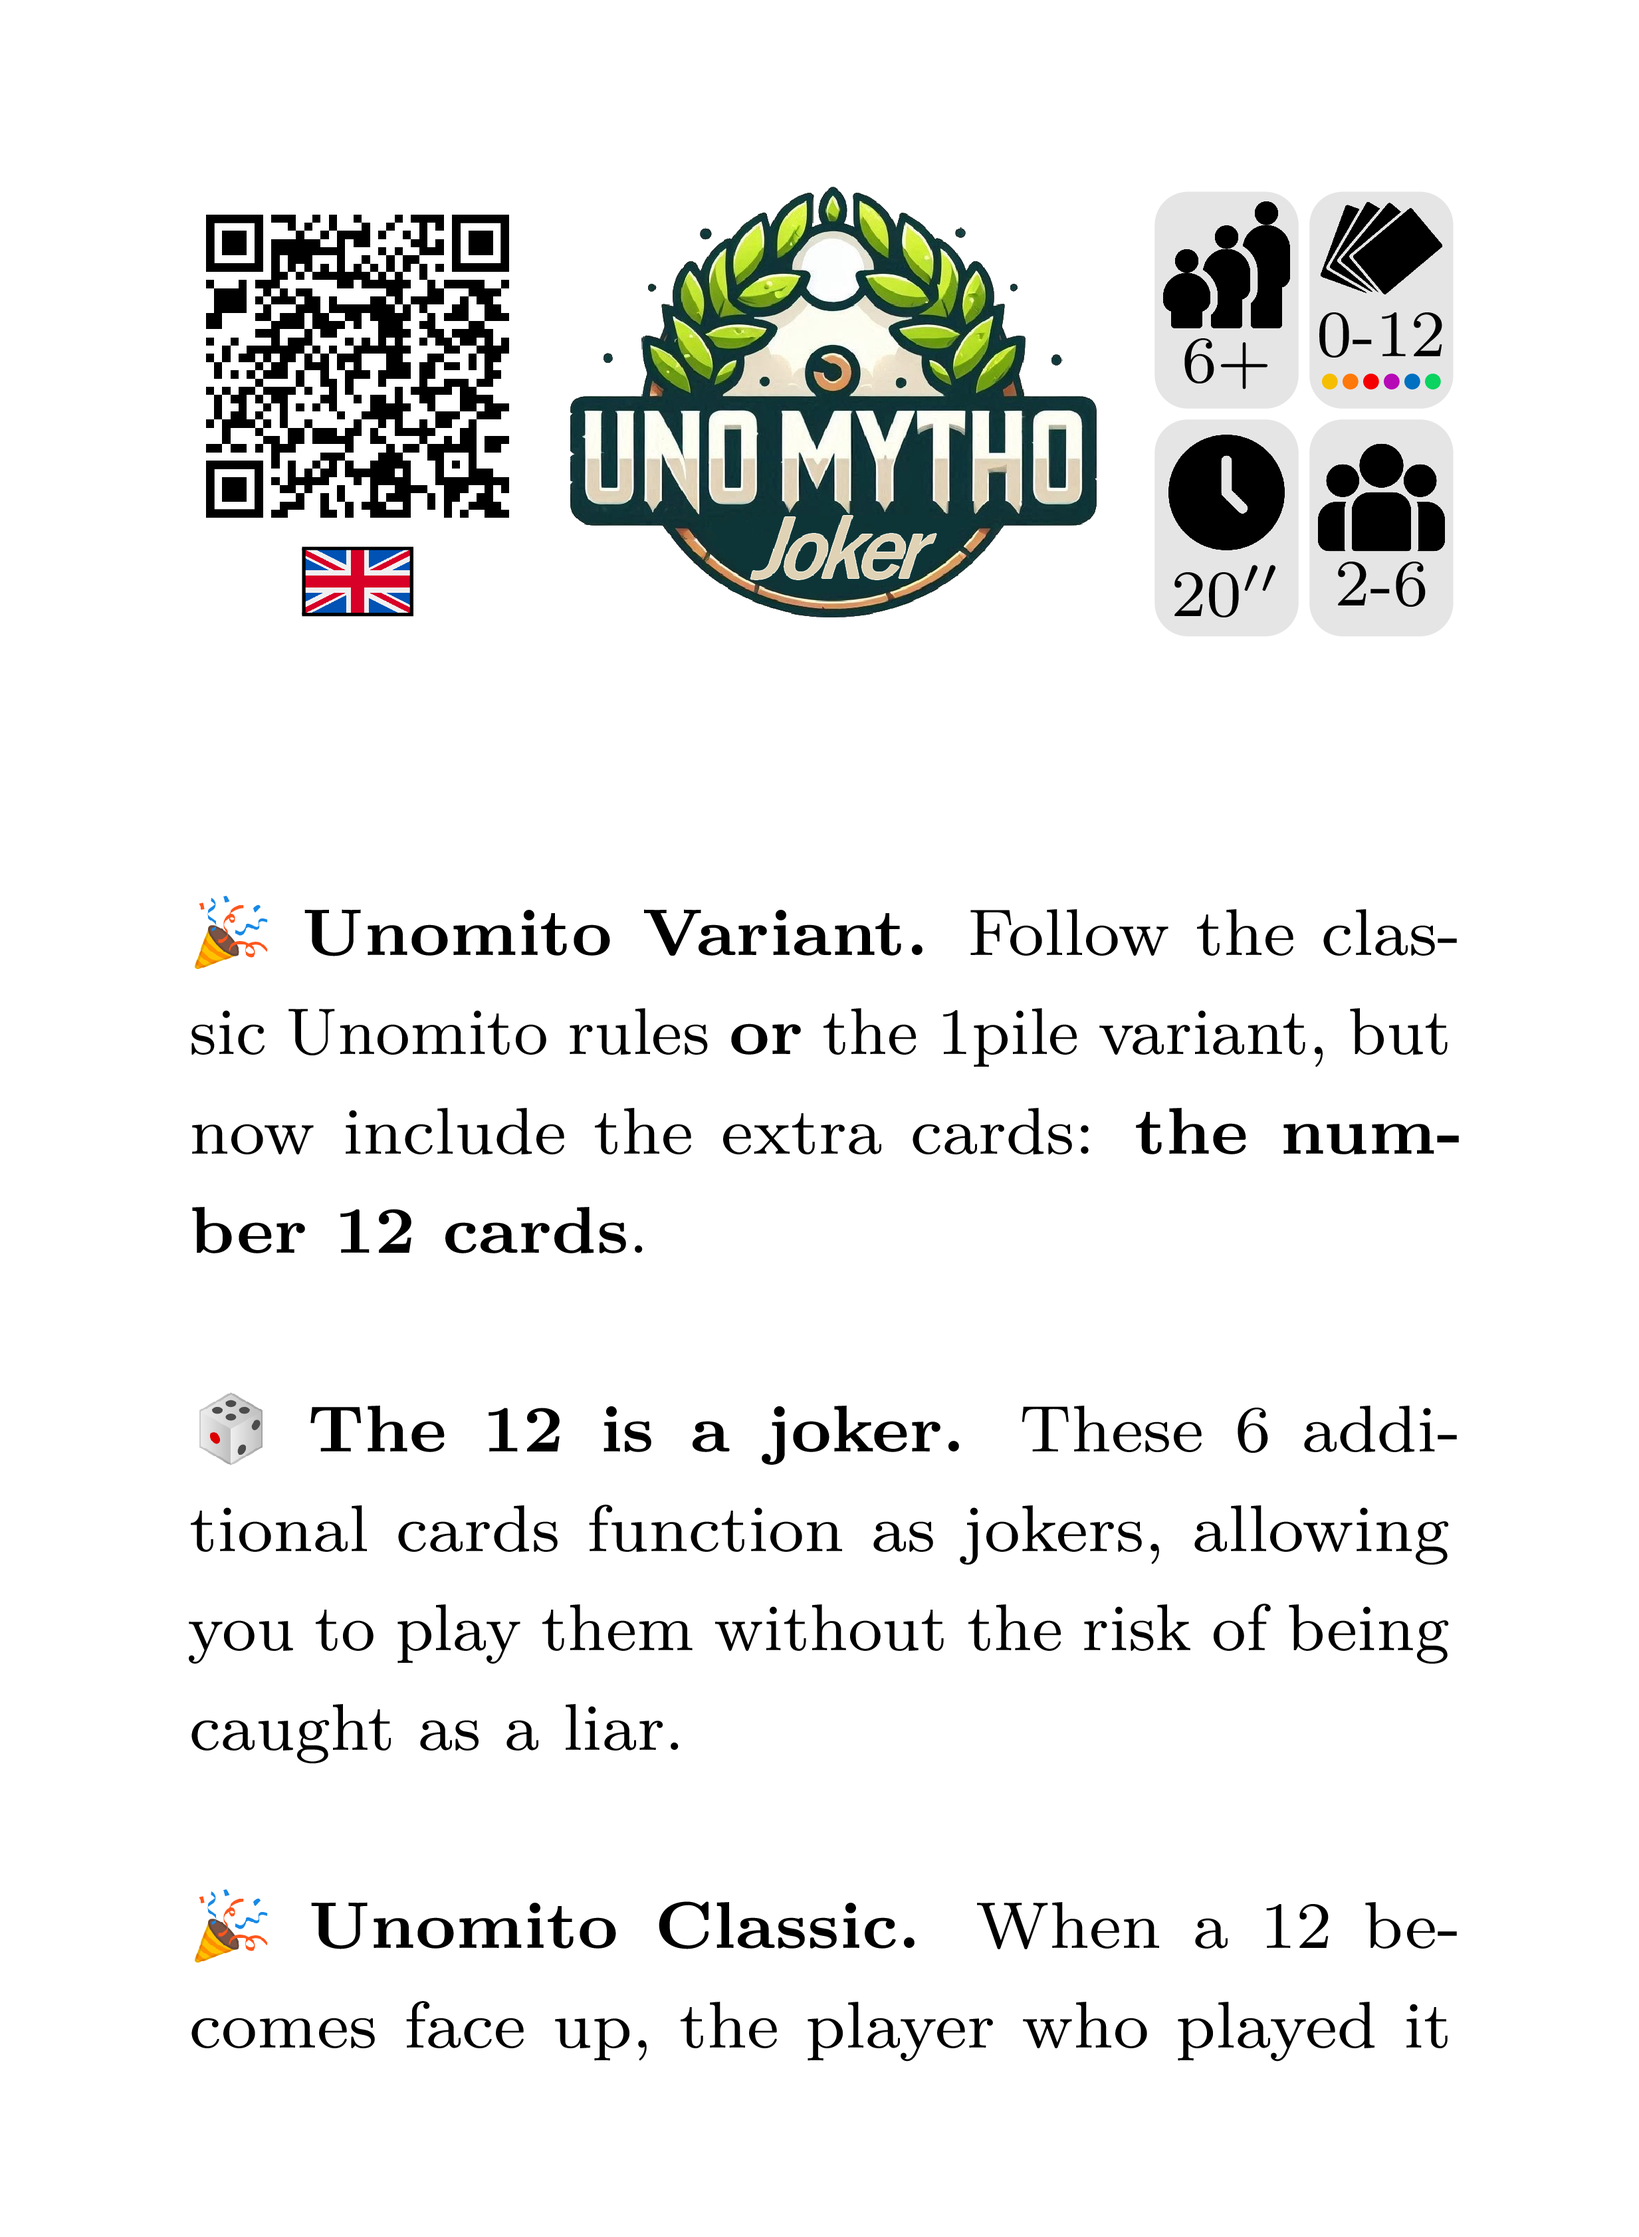
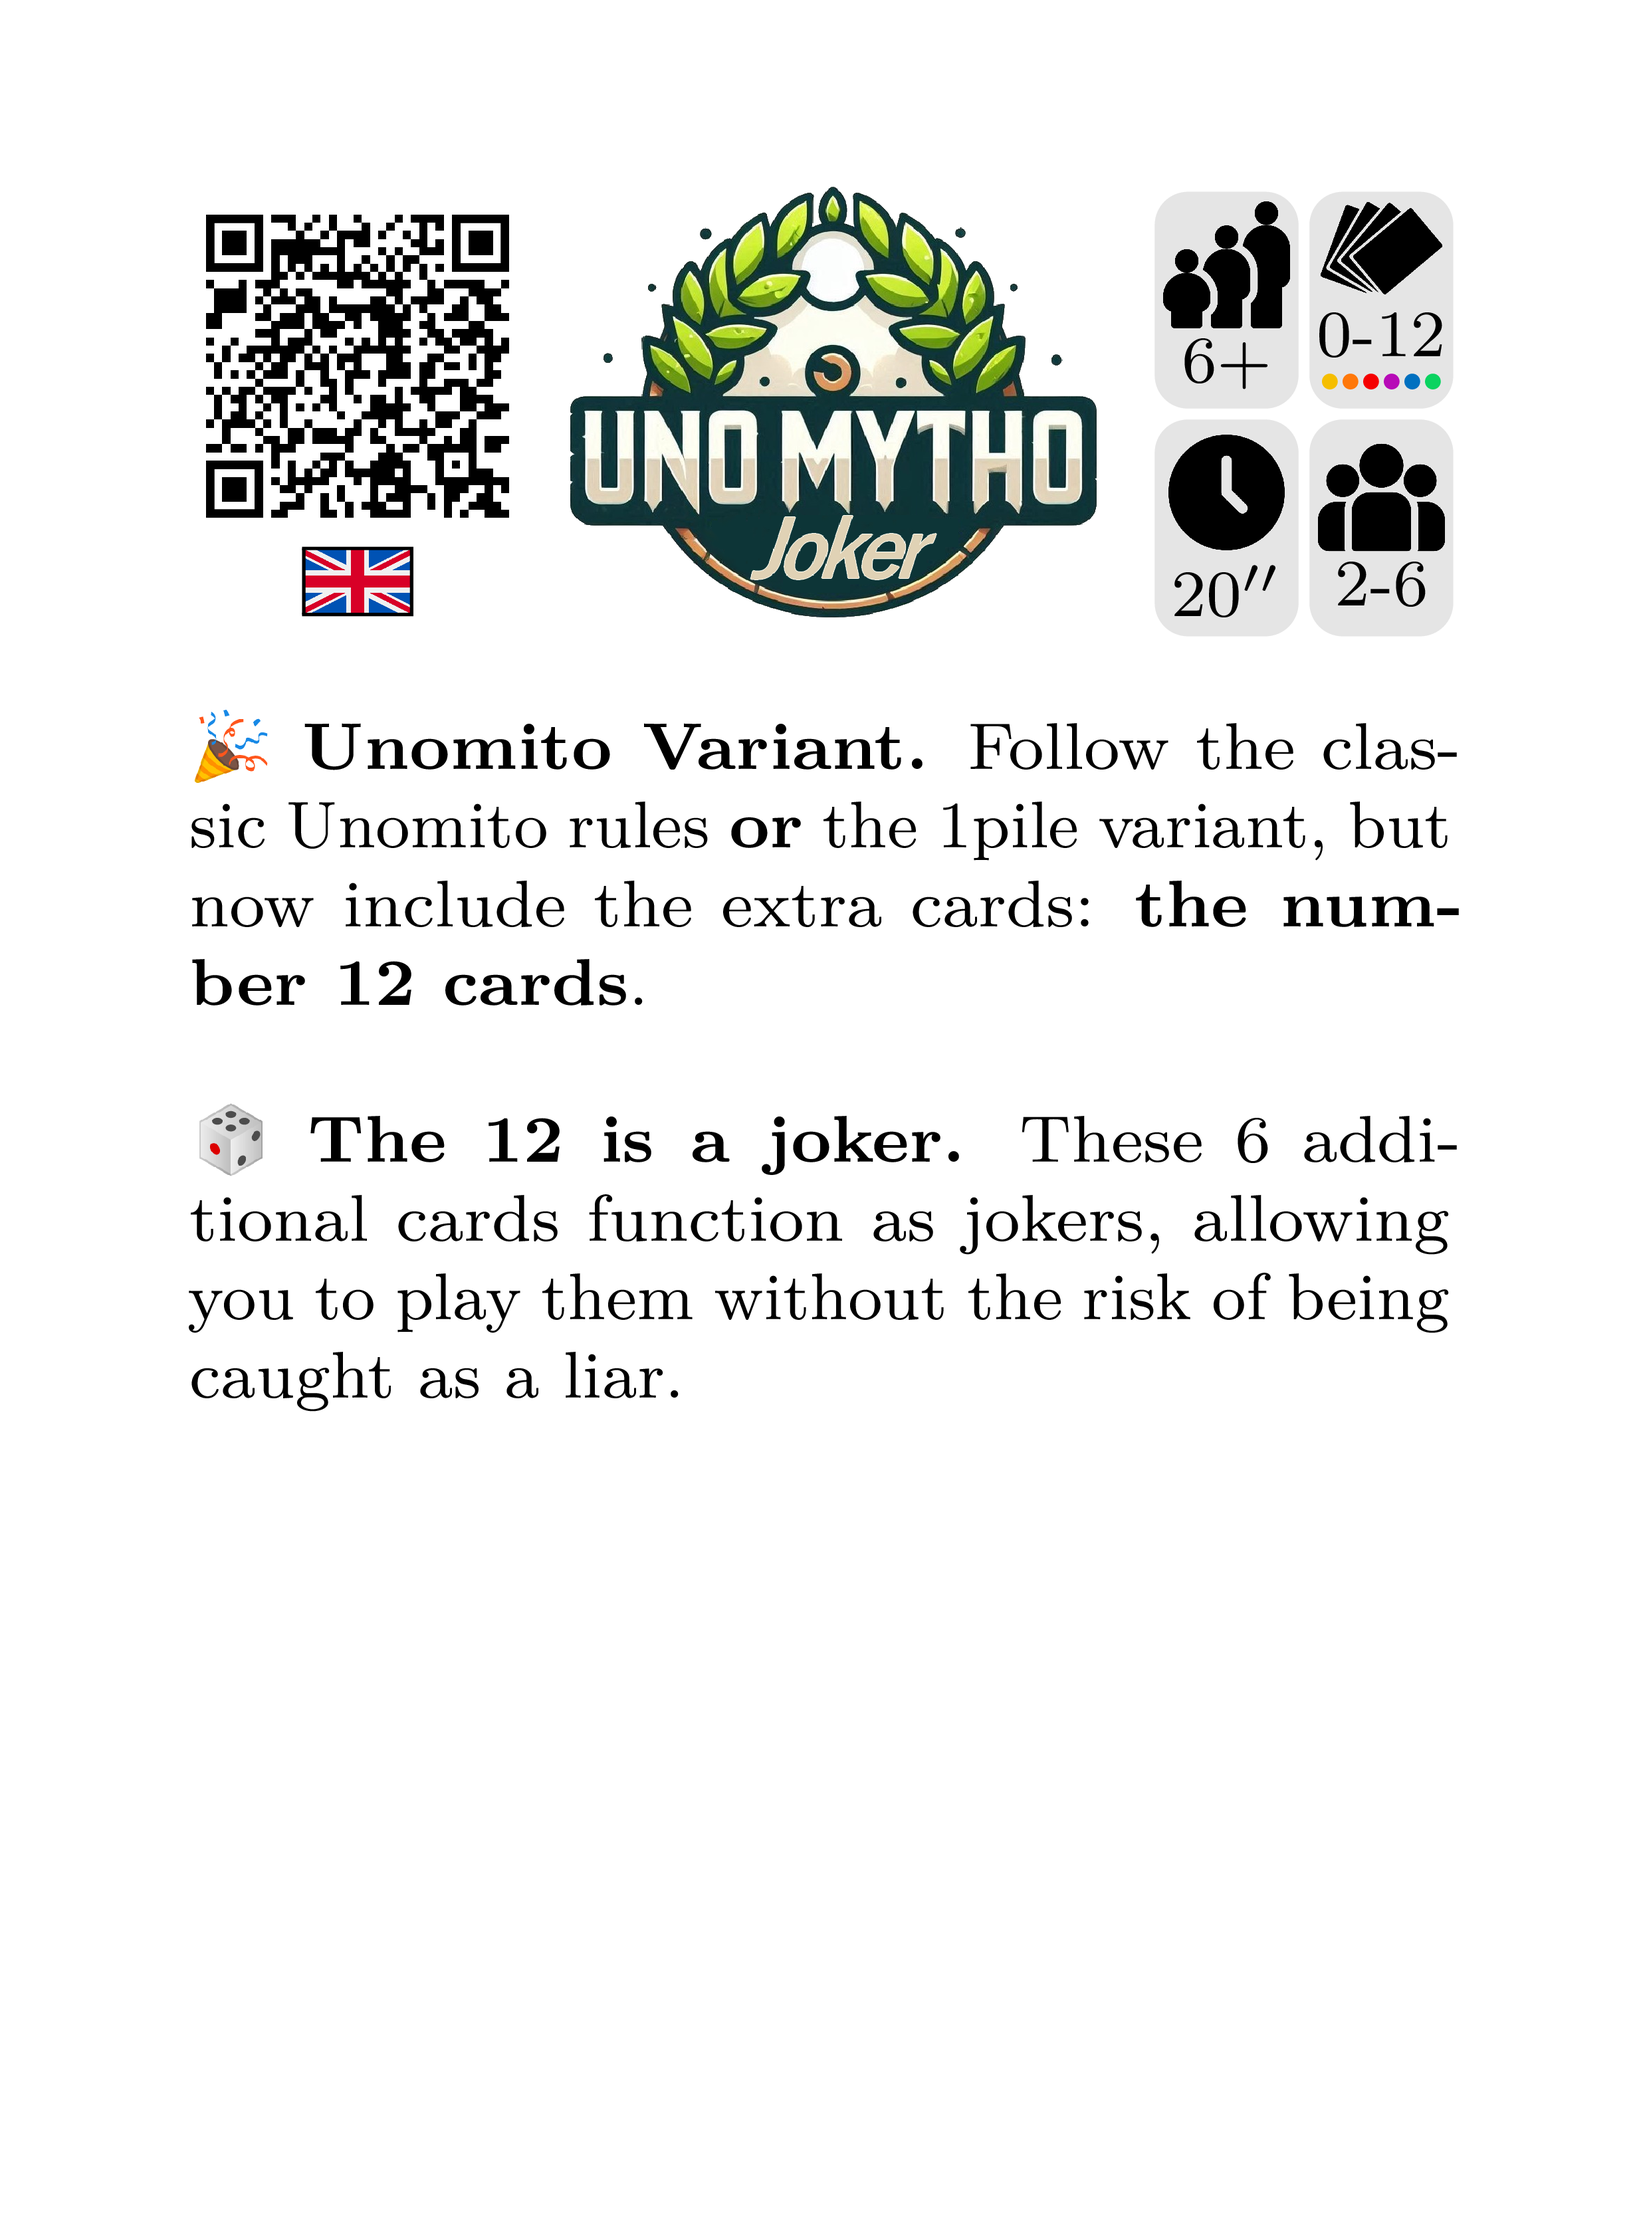
new rule

diff --git a/rules/Unomytho/Unomytho_joker/rule.tex b/rules/Unomytho/Unomytho_joker/rule.tex
@@ -25,8 +25,7 @@
 \\
 \noindent
 \textbf{\emoji{game-die} The 12 is a joker.} These 6 additional cards function as jokers, allowing you to play them without the risk of being caught as a liar.
-\\
-\\
+\newpage
 \noindent
 \textbf{\emoji{party-popper} Unomito Classic.} When a 12 becomes face up, the player who played it gets to choose its color and number.
 \\
